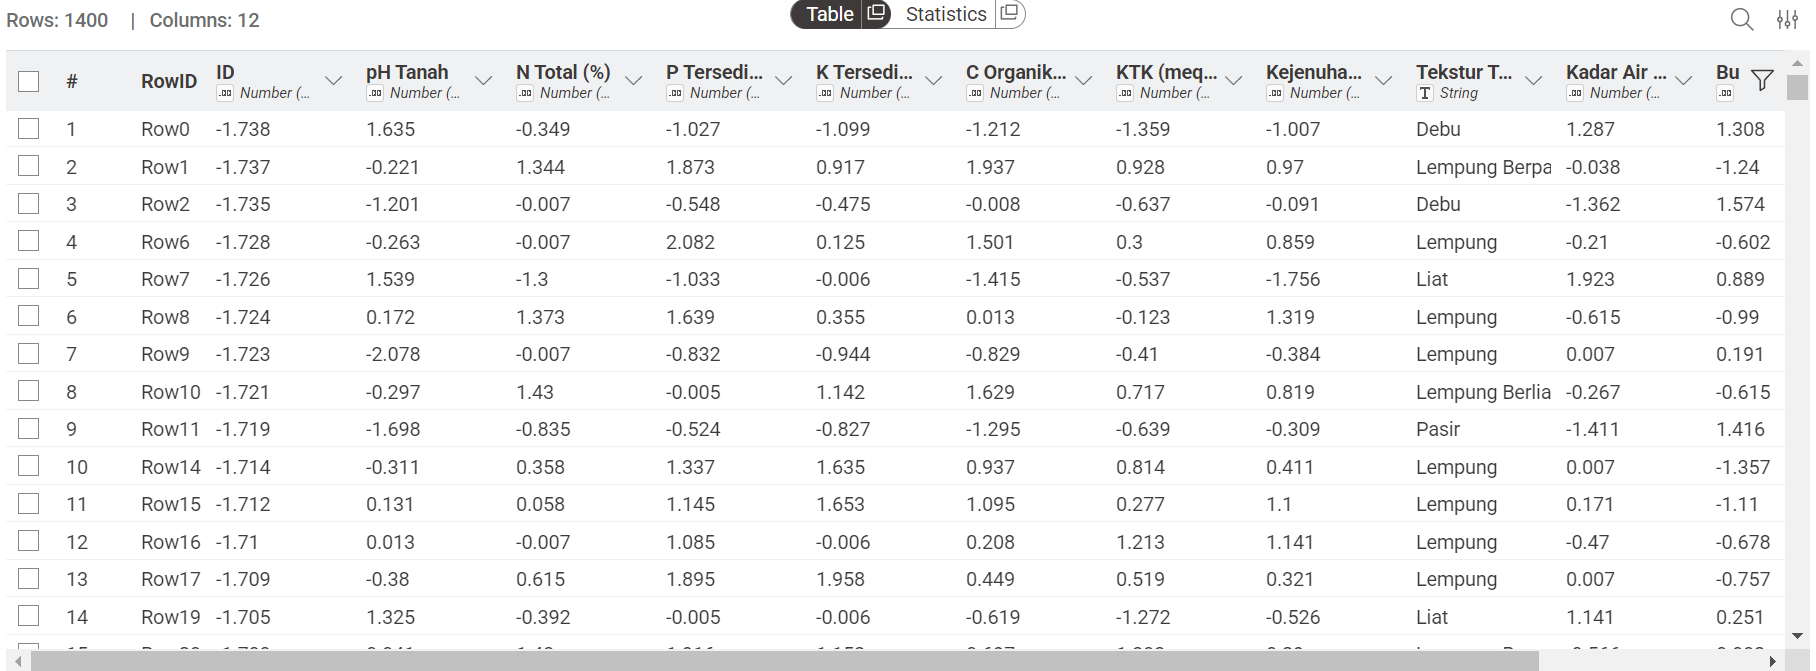
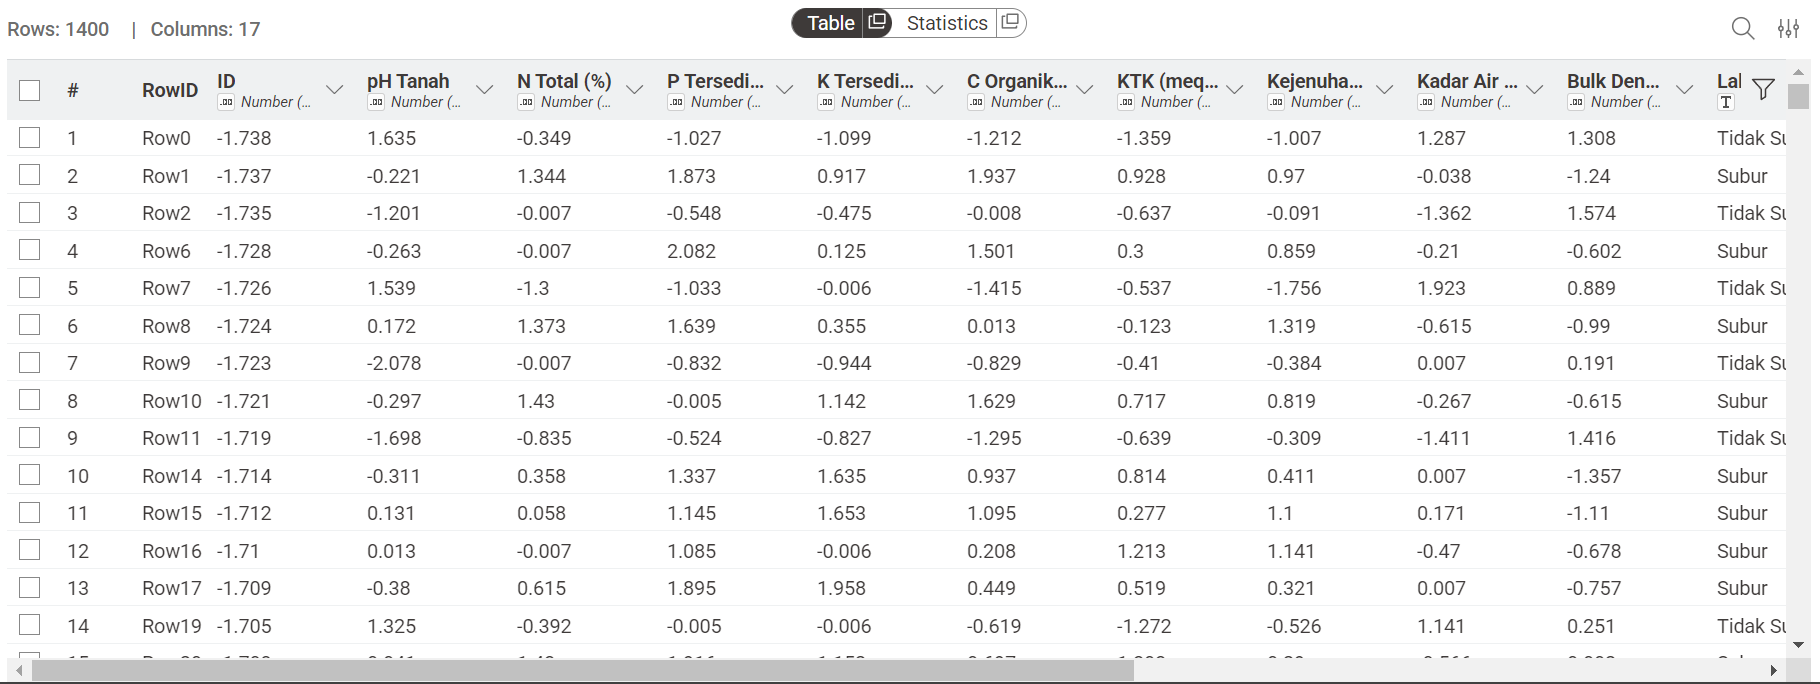
UTS - KNN

diff --git a/tugas/uts.md b/tugas/uts.md
@@ -32,12 +32,13 @@ Pada Tugas Ini, Saya menganalisis dataset tersebut menggunakan model KNN pada To
 
 ## Penjelasan Implementasi
 ### Implementasi KNime
-![Grafik Data](../img/UTS/Knime.png)
+![Grafik Data](../img/UTS/Knime2.png)
 ### Penjelasan Node
 |        Node       |    Penjelasan |
 |-------------------|---------------|
 | CSV Reader        |  Membaca file CSV yang merupakan Dataset dari sampel data tanah  |
 | Missing Value     |  Melakukan Imputasi terhadap missing values  |
+| One To Many       | Digunakan untuk mentransformasi nilai dari kolom Tekstur tanah dari kategorikal menjadi numerik |
 | Table Partitioner | Melakukan partisi dari dataset menjadi 2, yaitu data training dan data testing |
 | Normalizer        | Digunakan untuk melakukan normalisasi terhadap data |
 | KNN               | Menghitung jarak Euclidean dan klasifikasi |